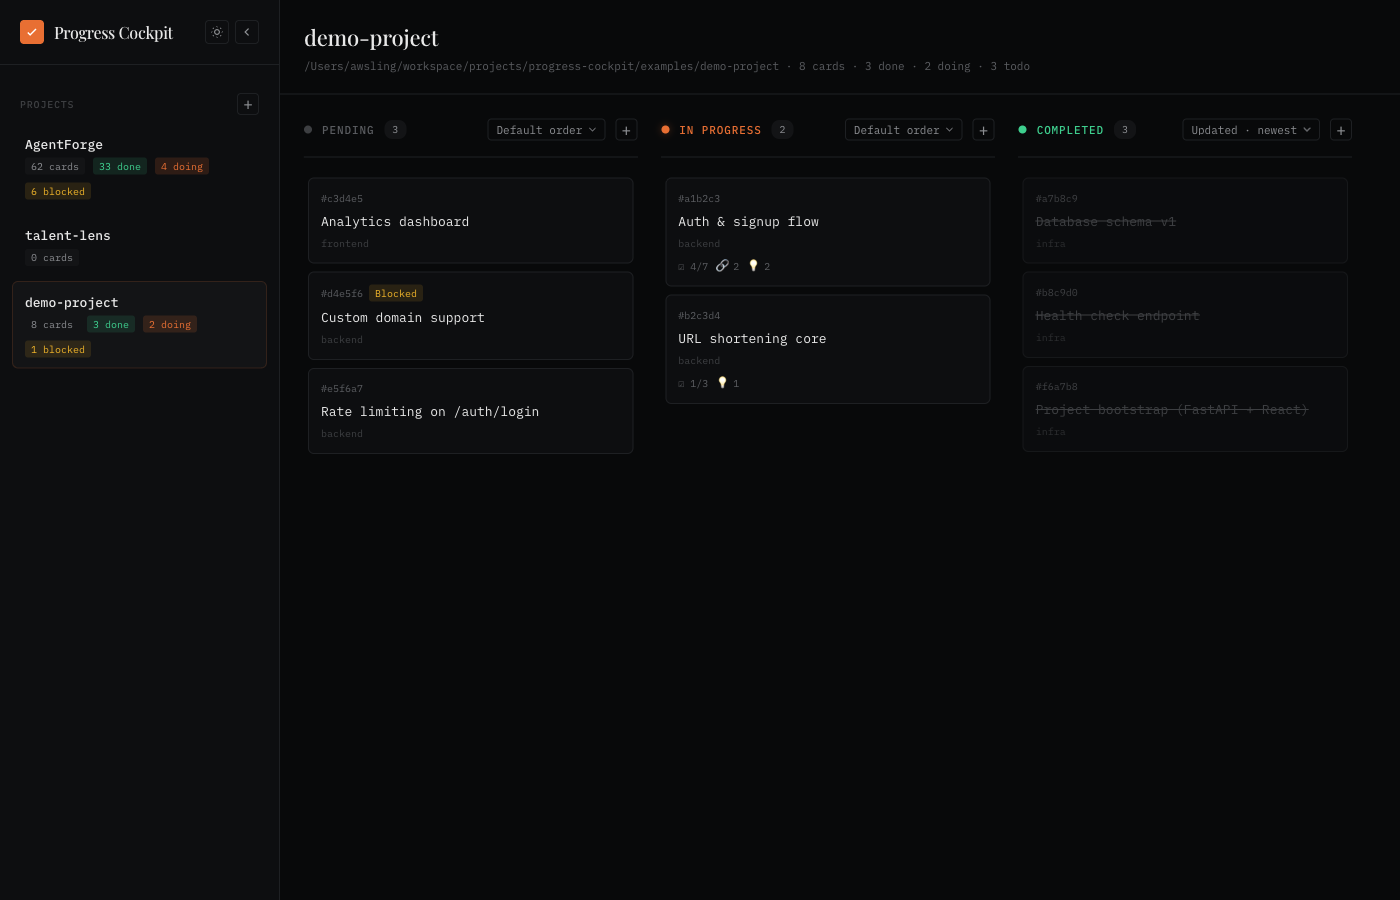
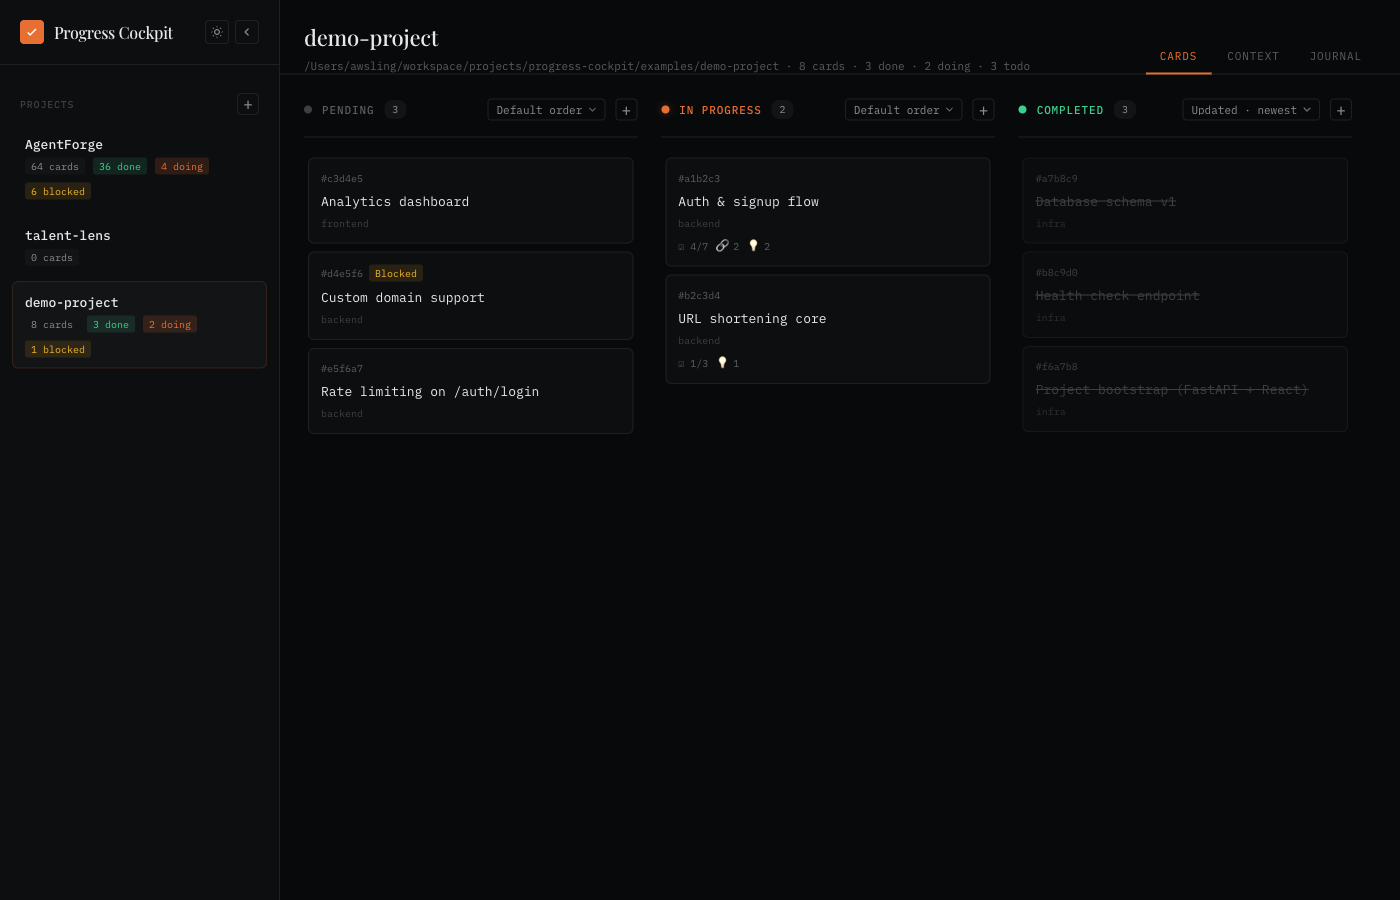
docs: demo Context/Journal tabs — demo files, screenshots, README sections
- examples/demo-project/.claude-progress/CONTEXT.md + JOURNAL.md to
  populate the new tabs in the public demo
- refresh screenshot-board-{light,dark}.png so the tab strip shows
- new screenshot-{context,journal}-{light,dark}.png pairs (1400×900)
- README.md / README.zh-CN.md: new "Context & Journal" section

diff --git a/examples/demo-project/.claude-progress/JOURNAL.md b/examples/demo-project/.claude-progress/JOURNAL.md
@@ -1,0 +1,52 @@
+# Project log
+
+> Newest at top. Group by date.
+
+## 2026-04-26
+
+- **decided**: rate limit `/auth/login` at 5/min/IP, 429 + `Retry-After`. Token bucket in Redis. New card `c_e5f6a7b8c9`.
+
+## 2026-04-25
+
+- **hit**: redirect handler `GET /:code` is slow under load — synchronous click increment was the culprit. Switched to async path via Redis queue (subtask `s_bb03000003` follows up).
+- **changed**: custom-domain card `c_d4e5f6a7b8` is **blocked** pending legal review of TOS around domain ownership. Park, don't pull.
+
+## 2026-04-23
+
+- **done**: session middleware skeleton wired, but cookie rotation policy still TBD — leaving subtask `s_aa06000006` in_progress until we decide.
+
+## 2026-04-22
+
+- **done**: `POST /auth/login` ships. Constant-time compare, issues `sid` cookie. Cleared subtask `s_aa05000005`.
+
+## 2026-04-20
+
+- **created**: analytics dashboard card `c_c3d4e5f6a7` queued for next sprint. Read-only chart of clicks + referrers.
+
+## 2026-04-18
+
+- **done**: `POST /auth/signup` returns verification token. Email send wiring deferred to subtask `s_aa04000004`.
+
+## 2026-04-14
+
+- **decided**: bcrypt cost = 12. Cost 14 added 1+ second to signup which was visibly slow in the UI; cost 10 felt too cheap given GPU speeds in 2026. See finding `f_aa20000002`.
+
+## 2026-04-12
+
+- **decided**: server-side sessions over JWT. Revocation is one DELETE; a JWT denylist would re-introduce the DB state we wanted to avoid. Recorded as finding `f_aa20000001` on card `c_a1b2c3d4e5`.
+
+## 2026-04-08
+
+- **created**: URL shortening core card `c_b2c3d4e5f6`. Locked in 7-char base62 short codes — 6 chars (56B addressable) felt borderline.
+
+## 2026-04-05
+
+- **done**: `GET /health` returns 200 if DB and Redis are reachable. Card `c_b8c9d0e1f2` complete.
+
+## 2026-04-04
+
+- **done**: alembic wired, initial `links` table + indexes on `short_code` and `owner_id`. Card `c_a7b8c9d0e1` complete.
+
+## 2026-04-01
+
+- **created**: project bootstrap (FastAPI + React + Docker Compose for Postgres + Redis). Card `c_f6a7b8c9d0`.

diff --git a/examples/demo-project/.claude-progress/CONTEXT.md b/examples/demo-project/.claude-progress/CONTEXT.md
@@ -1,0 +1,25 @@
+# Long-term context
+
+> Stable facts that should always be visible. Update only when the underlying decision changes.
+
+## Architecture conventions
+
+- **Stack**: FastAPI (3.12) on the backend, React + Vite on the frontend, Postgres for primary store, Redis for ephemeral counters.
+- **Layering**: HTTP routers under `app/routers/` are thin; business logic lives in `app/services/`; only services touch the DB. Routers may not import from `app/db/` directly.
+- **Migrations**: alembic, one file per schema change, numbered `NNN_short_name.sql`. Never edit a merged migration — write a new one.
+- **Sessions over JWT**: server-side session cookies (`sid`, HttpOnly, SameSite=Lax). Revocation = single DELETE. JWT was considered and rejected (see JOURNAL 2026-04-12).
+- **Async tasks**: anything that can fail without breaking the request (click counters, email sends) goes through Redis + a worker — never block the response path.
+
+## Key decisions
+
+- **bcrypt cost = 12** — ~250ms on a 2024 MBP. Cost 14 was tested but visibly slow on signup. Re-evaluate if hardware budget changes.
+- **Short codes = base62, 7 chars** (3.5T addressable). 6 chars (56B) felt borderline; we picked 7 for headroom.
+- **Email verification is mandatory** before login is permitted. Single-use 24h token. We do not allow "verify later".
+- **No password reset in MVP** — magic-link login is on the roadmap and will subsume it.
+
+## Cross-session must-knows
+
+- **Local dev**: `docker compose up` brings up Postgres + Redis on `localhost:5432` / `localhost:6379`. Test DB is `demo_test`, recreated by the test runner.
+- **Secrets**: `.env.example` is committed; `.env` is git-ignored. Never put real secrets in `.env.example`.
+- **CI gate**: `pytest` + `ruff check` + `mypy --strict app/` must all pass. Frontend has no CI gate yet (open todo).
+- **Deploy target** (when we get there): single VM, systemd-managed gunicorn + nginx reverse proxy. Not k8s — overkill for current scale.

diff --git a/README.md b/README.md
@@ -138,6 +138,22 @@ Click a reference whose URL is a relative path (e.g. `docs/rfc.md`, `assets/desi
   <img alt="markdown preview overlay" src="./docs/screenshot-preview-light.png">
 </picture>
 
+### Context & Journal
+
+Each project has two free-form markdown companions to the kanban — `.claude-progress/CONTEXT.md` (slow-moving long-term facts: stack, conventions, key decisions) and `.claude-progress/JOURNAL.md` (dated timeline, newest at top: what got done, what was decided, what got hit). Both surface as tabs in the project header and hot-reload over SSE when the file is touched. Tabs without a file show a small dot and the body offers the exact path to create.
+
+<picture>
+  <source media="(prefers-color-scheme: dark)" srcset="./docs/screenshot-context-dark.png">
+  <source media="(prefers-color-scheme: light)" srcset="./docs/screenshot-context-light.png">
+  <img alt="long-term context tab" src="./docs/screenshot-context-light.png">
+</picture>
+
+<picture>
+  <source media="(prefers-color-scheme: dark)" srcset="./docs/screenshot-journal-dark.png">
+  <source media="(prefers-color-scheme: light)" srcset="./docs/screenshot-journal-light.png">
+  <img alt="journal timeline tab" src="./docs/screenshot-journal-light.png">
+</picture>
+
 ### Card storage shape
 
 ```jsonc

diff --git a/README.zh-CN.md b/README.zh-CN.md
@@ -138,6 +138,22 @@
   <img alt="markdown 预览覆盖层" src="./docs/screenshot-preview-light.png">
 </picture>
 
+### 长期背景与项目日志
+
+每个项目除了看板外,还有两份自由格式的 markdown 伴侣文档:`.claude-progress/CONTEXT.md`(变动慢的长期事实:技术栈、约定、关键决策)和 `.claude-progress/JOURNAL.md`(按日期倒序的时间线:做完了什么、做了什么决策、踩了什么坑)。两者都以 tab 形式出现在项目头部,文件变动时通过 SSE 热刷新。文件不存在的 tab 会带一个小灰点提示,正文里也会给出该创建的精确路径。
+
+<picture>
+  <source media="(prefers-color-scheme: dark)" srcset="./docs/screenshot-context-dark.png">
+  <source media="(prefers-color-scheme: light)" srcset="./docs/screenshot-context-light.png">
+  <img alt="长期背景 tab" src="./docs/screenshot-context-light.png">
+</picture>
+
+<picture>
+  <source media="(prefers-color-scheme: dark)" srcset="./docs/screenshot-journal-dark.png">
+  <source media="(prefers-color-scheme: light)" srcset="./docs/screenshot-journal-light.png">
+  <img alt="项目日志 tab" src="./docs/screenshot-journal-light.png">
+</picture>
+
 ### 卡片存储结构
 
 ```jsonc
